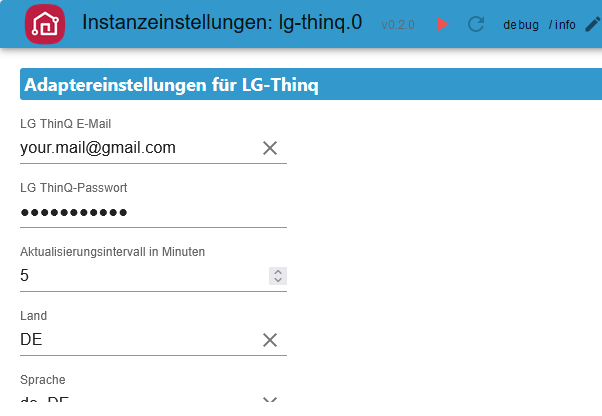
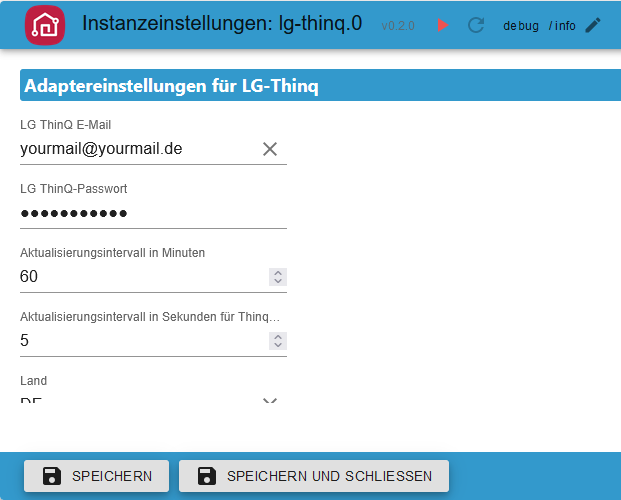
description update

diff --git a/docs/de/README.md b/docs/de/README.md
@@ -12,6 +12,7 @@ Der Adapter erstellt alle Datenpunkte mit dem Template aus dem Datenpunkt `model
 
 -   [Instanz Einstellungen](#instanz-einstellungen)
     -   [Einstellung LG-Thinq](#instanz-einstellung-lg-thinq)
+    -   [Intervall thinq1](#intervall-thinq1-lg-thinq)
 -   [Datenpunkte](#datenpunkte)
     -   [Datenpunkte Gerät 101 Kühl-Gefrierschrank](#gerät-101-kühlschrankeisschrank-thinq1--thinq2)
         -   [Remote Statistik](#101-remote-statistik-thinq2)
@@ -33,6 +34,7 @@ Der Adapter erstellt alle Datenpunkte mit dem Template aus dem Datenpunkt `model
         -   [Remote Holiday](#401-remote-holiday-thinq2)
         -   [Snapshot](#401-snapshot-thinq2)
     -   [Datenpunkte Gerät 401 Klimaanlage thinq1](#gerät-401-klimanalage-thinq1)
+        -   [Remote Statistik](#401-remote-statistik-thinq1)
         -   [Remote Basis Befehle](#401-remote-control-thinq1)
         -   [Snapshot](#401-snapshot-thinq1)
     -   [Datenpunkte Gerät 406 Wärmepumpe](#gerät-406-wärmepumpe-thinq2)
@@ -49,13 +51,25 @@ Der Adapter erstellt alle Datenpunkte mit dem Template aus dem Datenpunkt `model
 
 -   `LG ThinQ E-Mail`: APP eMail eintragen
 -   `LG ThinQ-Passwort`: APP Passwort eintragen
--   `Aktualisierungsintervall in Minuten`:  Empfohlen: Bei thinq2 60 Minuten und thinq1 0.5/1 Minute
+-   `Aktualisierungsintervall in Minuten`: Empfohlen: Bei 60 Minuten. Wenn Intervall thinq1 auf 0 gesetzt wird dann hier 0.5/1 Minute
+-   `Aktualisierungsintervall in Sekunden für Thinq1 (pro Gerät 1 Sekunde)`: Intervall für thinq1 User
 -   `Land`: Land eingeben - Standard DE
 -   `Sprache`: Sprache eingeben - Standard de_DE
 -   `Plattform`: Plattform eingeben - Default LGThinQ
 
     ![instance_config_1.png](img/instance_config_1.png)
     ![instance_config_2.png](img/instance_config_2.png)
+
+### Intervall thinq1 LG-Thinq
+
+[Zusammenfassung](#zusammenfassung)
+
+-   `interval.active` Wie viele Geräte bekommen derzeit Updates
+-   `interval.inactive` Wie viele Geräte bekommen derzeit keine Updates
+-   `interval.interval` Intervall aus der Instanz Einstellung ändern. Nach einem Adapter Neustart wird die Instanz Einstellung angewendet.
+-   `interval.last_update` Letzte Update
+
+    ![interval.png](img/interval.png)
 
 # Datenpunkte
 
@@ -501,9 +515,89 @@ Wenn einer der 3 Datenpunkte gefüllt wird, wird das ausgewählt Programm in den
 
 [Zusammenfassung](#zusammenfassung)
 
+### 401 Remote Statistik thinq1
+
+[Zusammenfassung](#zusammenfassung)
+
+-   hourly
+-   `remote.Statistic.endDate` Datum eintragen bei hourly muss end und start gleich sein Format: 2023.12.01
+-   `remote.Statistic.startDate` Datum eintragen bei hourly muss end und start gleich sein Format: 2023.12.01
+-   ODER daily
+-   `remote.Statistic.endDate` Datum eintragen daily - Format: 2023.12.06
+-   `remote.Statistic.startDate` Datum eintragen daily - Format: 2023.12.01
+-   ODER monthly
+-   `remote.Statistic.endDate` Datum eintragen monthly - Format: 2023.12.01
+-   `remote.Statistic.startDate` Datum eintragen monthly - Format: 2023.10.01
+-   `remote.Statistic.period` Welche Periode
+-   `remote.Statistic.sendRequest` Auswahl senden
+-   `remote.Statistic.jsonResult` Statistik als JSON. Sind die Attribute leer dann unterstützt euer Geräte diese nicht oder es wurde ein falsches Datum angegeben.
+
+    ![401_thinq1_remote_statistic.png](img/401_thinq1_remote_statistic.png)
+
+```json
+[
+  {
+    "month": 0,
+    "day": "03",
+    "hour": 0,
+    "min": "16",
+    "kwh": 0.1
+  },
+  {
+    "month": 0,
+    "day": "04",
+    "hour": 0,
+    "min": "59",
+    "kwh": 0.2
+  },
+  {
+    "month": 0,
+    "day": "06",
+    "hour": 0,
+    "min": "15",
+    "kwh": 0.1
+  },
+  {
+    "month": 0,
+    "day": "07",
+    "hour": 0,
+    "min": "40",
+    "kwh": 0.1
+  },
+  {
+    "month": 0,
+    "day": "09",
+    "hour": 0,
+    "min": "35",
+    "kwh": 0.2
+  },
+  {
+    "month": 0,
+    "day": "10",
+    "hour": 0,
+    "min": "60",
+    "kwh": 0.2
+  },
+  {
+    "month": 0,
+    "day": "11",
+    "hour": 0,
+    "min": "60",
+    "kwh": 0.2
+  },
+  {
+    "month": 0,
+    "day": "12",
+    "hour": 0,
+    "min": "90",
+    "kwh": 0.3
+  }
+]
+```
+
 ### 401 Remote Control thinq1
 
-![401_thinq1_folder.png](../en/img/401_thinq1_folder.png)
+![401_thinq1_folder.png](401_thinq1_folder.png)
 
 [Zusammenfassung](#zusammenfassung)
 
@@ -527,7 +621,7 @@ lg-thinq.0.xxx.remote.SetWDirLeftRight -> {"`WDirLeftRight`":"{{WDirLeftRight}}"
 -   `remote.settings.WDirLeftRight` 0 oder 1
 -   `remote.SetWDirLeftRight` danach diesen Datenpunkt auf true setzen
 
-    ![401_thinq1_folder.png](../en/img/401_thinq1_remote.png)
+    ![401_thinq1_remote.png](../en/img/401_thinq1_remote.png)
 
 ### 401 Snapshot thinq1
 

diff --git a/docs/en/README.md b/docs/en/README.md
@@ -12,6 +12,7 @@ The adapter creates all data points with the template from the data point `model
 
 -   [Instance Settings](#instance-settings)
     -   [Setting LG-Thinq](#instance-setting-lg-thinq)
+    -   [Thinq1 Interval](#interval-thinq1-lg-thinq)
 -   [Datapoints](#datapoints)
     -   [Datapoint Device 101 Refrigerator/Freezer](#device-101-refrigeratorfreezer-thinq1--thinq2)
         -   [Remote Statistic](#101-remote-statistic-thinq2)
@@ -33,6 +34,7 @@ The adapter creates all data points with the template from the data point `model
         -   [Remote Holiday](#401-remote-holiday-thinq2)
         -   [Snapshot](#401-snapshot-thinq2)
     -   [Datapoint Device 401 air conditioner thinq1](#device-401-air-conditioner-thinq1)
+        -   [Remote Statistic](#401-remote-statistic-thinq1)
         -   [Remote basic commands](#401-remote-control-thinq1)
         -   [Snapshot](#401-snapshot-thinq1)
     -   [Datapoint Device 406 Head pump](#device-406-heat-pump-thinq2)
@@ -49,13 +51,25 @@ The adapter creates all data points with the template from the data point `model
 
 -   `LG ThinQ Email`: Enter APP email
 -   `LG ThinQ Password`: Enter APP password
--   `Update interval in minutes`:  Recommended: For thinq2 60 minutes and thinq1 0.5/1 minute
+-   `Update interval in minutes`: Recommended: At 60 minutes. If interval thinq1 is set to 0 then here is 0.5/1 minute
+-   `Update interval in seconds for Thinq1 (per device 1 Second)`: Interval for thinq1 users
 -   `Country`: Enter country - default DE
 -   `Language`: Enter language - default de_DE
 -   `Platform`: Enter platform - default LGThinQ
 
     ![instance_config_1.png](img/instance_config_1.png)
     ![instance_config_2.png](img/instance_config_2.png)
+
+### Interval thinq1 LG-Thinq
+
+[Summary](#summary)
+
+-   `interval.active` How many devices are currently receiving updates
+-   `interval.inactive` How many devices are currently not receiving updates
+-   `interval.interval` Change interval from instance setting. After an adapter restart, the instance setting is applied.
+-   `interval.last_update` Latest update
+
+    ![interval.png](img/interval.png)
 
 # Datapoints
 
@@ -501,6 +515,86 @@ When one of the 3 data points is filled, the selected program is written to the 
 
 [Summary](#summary)
 
+### 401 Remote Statistic thinq1
+
+[Summary](#summary)
+
+-   hourly
+-   `remote.Statistic.endDate` Enter the date for hourly, end and start must be the same Format: 2023.12.01
+-   `remote.Statistic.startDate` Enter the date for hourly, end and start must be the same Format: 2023.12.01
+-   Or daily
+-   `remote.Statistic.endDate` Enter date daily - Format: 2023.12.06
+-   `remote.Statistic.startDate` Enter date daily - Format: 2023.12.01
+-   Or monthly
+-   `remote.Statistic.endDate` Enter date monthly - Format: 2023.12.01
+-   `remote.Statistic.startDate` Enter date monthly - Format: 2023.10.01
+-   `remote.Statistic.period` Select period
+-   `remote.Statistic.sendRequest` Send selection
+-   `remote.Statistic.jsonResult` Statistics as JSON. If the attributes are empty then your device does not support them or an incorrect date was specified.
+
+    ![401_thinq1_remote_statistic.png](img/401_thinq1_remote_statistic.png)
+
+```json
+[
+  {
+    "month": 0,
+    "day": "03",
+    "hour": 0,
+    "min": "16",
+    "kwh": 0.1
+  },
+  {
+    "month": 0,
+    "day": "04",
+    "hour": 0,
+    "min": "59",
+    "kwh": 0.2
+  },
+  {
+    "month": 0,
+    "day": "06",
+    "hour": 0,
+    "min": "15",
+    "kwh": 0.1
+  },
+  {
+    "month": 0,
+    "day": "07",
+    "hour": 0,
+    "min": "40",
+    "kwh": 0.1
+  },
+  {
+    "month": 0,
+    "day": "09",
+    "hour": 0,
+    "min": "35",
+    "kwh": 0.2
+  },
+  {
+    "month": 0,
+    "day": "10",
+    "hour": 0,
+    "min": "60",
+    "kwh": 0.2
+  },
+  {
+    "month": 0,
+    "day": "11",
+    "hour": 0,
+    "min": "60",
+    "kwh": 0.2
+  },
+  {
+    "month": 0,
+    "day": "12",
+    "hour": 0,
+    "min": "90",
+    "kwh": 0.3
+  }
+]
+```
+
 ### 401 Remote Control thinq1
 
 ![401_thinq1_folder.png](img/401_thinq1_folder.png)
@@ -527,7 +621,7 @@ lg-thinq.0.xxx.remote.SetWDirLeftRight -> {"`WDirLeftRight`":"{{WDirLeftRight}}"
 -   `remote.settings.WDirLeftRight` 0 or 1
 -   `remote.SetWDirLeftRight` then set this data point to true
 
-    ![401_thinq1_folder.png](img/401_thinq1_remote.png)
+    ![401_thinq1_remote.png](img/401_thinq1_remote.png)
 
 ### 401 Snapshot thinq1
 
